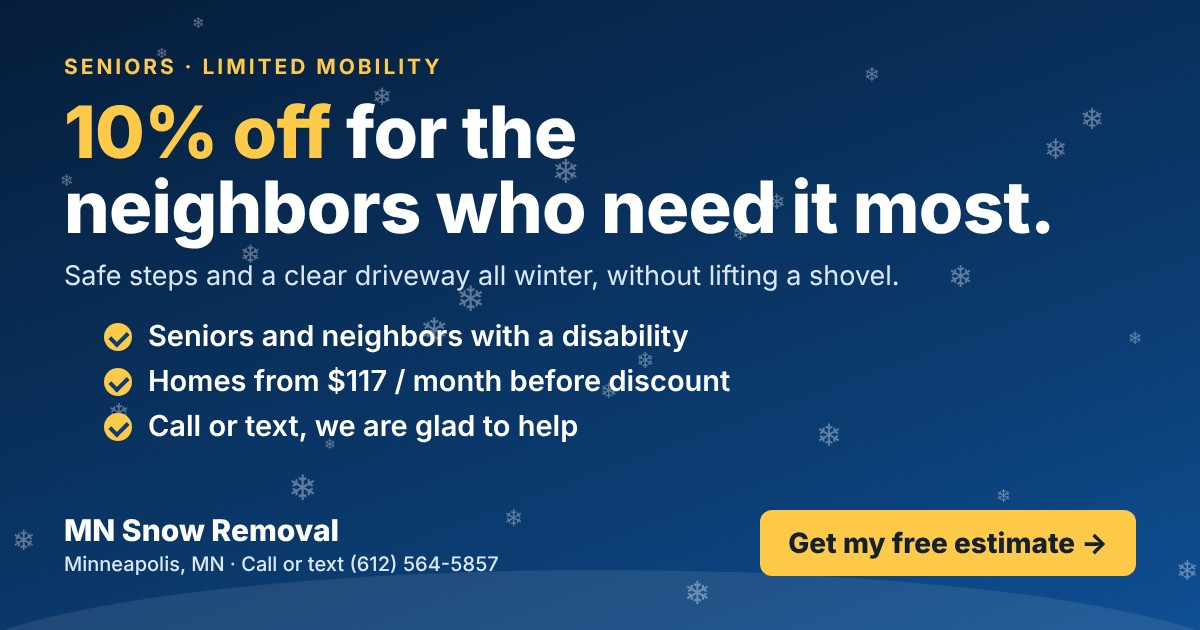
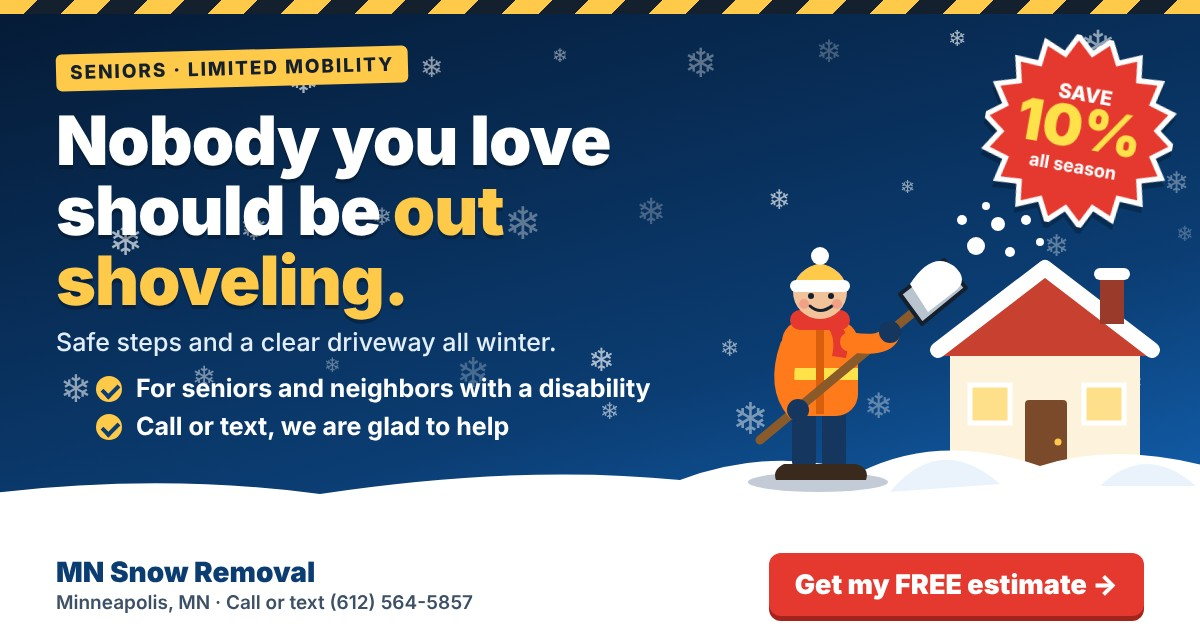
Illustrated flyers and /n/ share pages
Claude-Session: https://claude.ai/code/session_01SeUvSgCgjRGko13d1mNGUx

diff --git a/n/business/index.html b/n/business/index.html
@@ -1,0 +1,6 @@
+<!doctype html><html lang="en"><head><meta charset="utf-8"><meta name="viewport" content="width=device-width,initial-scale=1">
+<title>Twin Cities businesses: open on time, every snowfall | MN Snow Removal</title><meta name="description" content="Entrance, sidewalks and parking cleared. From $250 a month. See your price online in 2 minutes.">
+<meta property="og:type" content="website"><meta property="og:url" content="https://ecosgrooup-dot.github.io/snow-quote/n/business/"><meta property="og:title" content="Twin Cities businesses: open on time, every snowfall"><meta property="og:description" content="Entrance, sidewalks and parking cleared. From $250 a month. See your price online in 2 minutes.">
+<meta property="og:image" content="https://ecosgrooup-dot.github.io/snow-quote/media/fly2-business.jpg"><meta property="og:image:width" content="1200"><meta property="og:image:height" content="630"><meta name="twitter:card" content="summary_large_image">
+<meta http-equiv="refresh" content="0;url=../../"><link rel="canonical" href="https://ecosgrooup-dot.github.io/snow-quote/"></head>
+<body style="font-family:system-ui;padding:24px"><p><a href="../../">Get your free snow removal estimate</a></p><script>location.replace("../../")</script></body></html>

diff --git a/n/seniors/index.html b/n/seniors/index.html
@@ -1,0 +1,6 @@
+<!doctype html><html lang="en"><head><meta charset="utf-8"><meta name="viewport" content="width=device-width,initial-scale=1">
+<title>10% off snow removal for seniors and neighbors with limited mobility | MN Snow Removal</title><meta name="description" content="Safe steps and a clear driveway all winter. Call or text (612) 564-5857.">
+<meta property="og:type" content="website"><meta property="og:url" content="https://ecosgrooup-dot.github.io/snow-quote/n/seniors/"><meta property="og:title" content="10% off snow removal for seniors and neighbors with limited mobility"><meta property="og:description" content="Safe steps and a clear driveway all winter. Call or text (612) 564-5857.">
+<meta property="og:image" content="https://ecosgrooup-dot.github.io/snow-quote/media/fly2-seniors.jpg"><meta property="og:image:width" content="1200"><meta property="og:image:height" content="630"><meta name="twitter:card" content="summary_large_image">
+<meta http-equiv="refresh" content="0;url=../../"><link rel="canonical" href="https://ecosgrooup-dot.github.io/snow-quote/"></head>
+<body style="font-family:system-ui;padding:24px"><p><a href="../../">Get your free snow removal estimate</a></p><script>location.replace("../../")</script></body></html>

diff --git a/n/home/index.html b/n/home/index.html
@@ -1,0 +1,6 @@
+<!doctype html><html lang="en"><head><meta charset="utf-8"><meta name="viewport" content="width=device-width,initial-scale=1">
+<title>Put the shovel away this winter | MN Snow Removal</title><meta name="description" content="Driveway and walkways cleared after every snowfall. From $117 a month. See your price in 2 minutes.">
+<meta property="og:type" content="website"><meta property="og:url" content="https://ecosgrooup-dot.github.io/snow-quote/n/home/"><meta property="og:title" content="Put the shovel away this winter"><meta property="og:description" content="Driveway and walkways cleared after every snowfall. From $117 a month. See your price in 2 minutes.">
+<meta property="og:image" content="https://ecosgrooup-dot.github.io/snow-quote/media/fly2-home.jpg"><meta property="og:image:width" content="1200"><meta property="og:image:height" content="630"><meta name="twitter:card" content="summary_large_image">
+<meta http-equiv="refresh" content="0;url=../../"><link rel="canonical" href="https://ecosgrooup-dot.github.io/snow-quote/"></head>
+<body style="font-family:system-ui;padding:24px"><p><a href="../../">Get your free snow removal estimate</a></p><script>location.replace("../../")</script></body></html>

diff --git a/n/steps/index.html b/n/steps/index.html
@@ -1,0 +1,6 @@
+<!doctype html><html lang="en"><head><meta charset="utf-8"><meta name="viewport" content="width=device-width,initial-scale=1">
+<title>Your snow removal price in 3 simple steps | MN Snow Removal</title><meta name="description" content="Type your address, drag a box over what you need cleared, see your price right away.">
+<meta property="og:type" content="website"><meta property="og:url" content="https://ecosgrooup-dot.github.io/snow-quote/n/steps/"><meta property="og:title" content="Your snow removal price in 3 simple steps"><meta property="og:description" content="Type your address, drag a box over what you need cleared, see your price right away.">
+<meta property="og:image" content="https://ecosgrooup-dot.github.io/snow-quote/media/fly2-steps.jpg"><meta property="og:image:width" content="1200"><meta property="og:image:height" content="630"><meta name="twitter:card" content="summary_large_image">
+<meta http-equiv="refresh" content="0;url=../../"><link rel="canonical" href="https://ecosgrooup-dot.github.io/snow-quote/"></head>
+<body style="font-family:system-ui;padding:24px"><p><a href="../../">Get your free snow removal estimate</a></p><script>location.replace("../../")</script></body></html>

diff --git a/n/prices/index.html b/n/prices/index.html
@@ -1,0 +1,6 @@
+<!doctype html><html lang="en"><head><meta charset="utf-8"><meta name="viewport" content="width=device-width,initial-scale=1">
+<title>Snow removal: the whole season, one simple price | MN Snow Removal</title><meta name="description" content="Homes from $700, businesses from $1,500 per season. 5% off when you prepay.">
+<meta property="og:type" content="website"><meta property="og:url" content="https://ecosgrooup-dot.github.io/snow-quote/n/prices/"><meta property="og:title" content="Snow removal: the whole season, one simple price"><meta property="og:description" content="Homes from $700, businesses from $1,500 per season. 5% off when you prepay.">
+<meta property="og:image" content="https://ecosgrooup-dot.github.io/snow-quote/media/fly2-prices.jpg"><meta property="og:image:width" content="1200"><meta property="og:image:height" content="630"><meta name="twitter:card" content="summary_large_image">
+<meta http-equiv="refresh" content="0;url=../../"><link rel="canonical" href="https://ecosgrooup-dot.github.io/snow-quote/"></head>
+<body style="font-family:system-ui;padding:24px"><p><a href="../../">Get your free snow removal estimate</a></p><script>location.replace("../../")</script></body></html>
